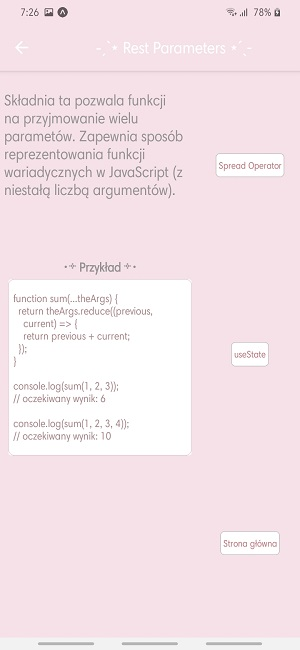
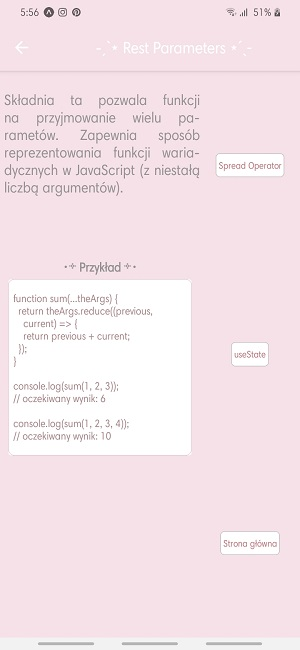
done

diff --git a/Laboratorium2/myapp/components/UseState.js b/Laboratorium2/myapp/components/UseState.js
@@ -36,8 +36,8 @@ export default function UseState({navigation}) {
 
         <View style={styles.state.descr}>
           <View style={styles.state.text}>
-          <Text style={styles.rest.optxt}>Jest to hook, który pozwala korzystać ze stanu w komponencie funkcyjnym. Wywołanie useState deklaruje "zmienną stanu".
-          Jest to sposób na przechowywanie wartości stanu w React'cie.</Text>
+          <Text style={styles.rest.optxt}>Jest to hook, który pozwala korzystać ze stanu w komponencie funkcyjnym. Wywołanie use- State deklaruje "zmienną sta- nu".
+          Jest to sposób na prze- chowywanie wartości stanu w React'cie.</Text>
           </View>
           <View style={styles.state.ex}>
           <Text style={styles.rest.extxt1}>･༓ Przykład ༓･</Text>

diff --git a/Laboratorium2/myapp/components/RestParam.js b/Laboratorium2/myapp/components/RestParam.js
@@ -21,7 +21,8 @@ export default function RestParam({navigation}) {
       <View style={styles.rest.container}>
         <View style={styles.rest.text}>
           <View style={styles.rest.op}>
-          <Text style={styles.rest.optxt}>Składnia ta pozwala funkcji na przyjmowanie wielu parametów. Zapewnia sposób reprezentowania funkcji wariadycznych w JavaScript (z niestałą liczbą argumentów).</Text>
+          <Text style={styles.rest.optxt}>Składnia ta pozwala funkcji na przyjmowanie wielu pa- rametów. 
+          Zapewnia sposób reprezentowania funkcji waria- dycznych w JavaScript (z niestałą liczbą argumentów).</Text>
           </View>
           <View style={styles.rest.ex}>
             <Text style={styles.rest.extxt1}>･༓ Przykład ༓･</Text>

diff --git a/Laboratorium2/myapp/components/SpreadOp.js b/Laboratorium2/myapp/components/SpreadOp.js
@@ -17,7 +17,7 @@ export default function SpreadOp({navigation}) {
       <View style={styles.spread.container}>
         <View style={styles.spread.top}>
           <View style={styles.spread.desc}>
-          <Text style={styles.rest.optxt}>Składnia (...) umożliwia rozbijanie iterowanej wartości na składowe. Mogą nimi być
+          <Text style={styles.rest.optxt}>Składnia (...) umożliwia rozbi- janie iterowanej wartości na składowe. Mogą nimi być
           stringi (bo składają się z poszczególnych liter), tablice (bo składają się z elementów) oraz kolekcje lub obiekty, po których często robimy pętle. </Text>
           </View>
           <View style={styles.spread.buttons}>

diff --git a/Laboratorium2/myapp/components/styles.js b/Laboratorium2/myapp/components/styles.js
@@ -70,8 +70,9 @@ styles.rest = StyleSheet.create({
     optxt: {
         color: '#999697',
         marginTop: '10%',
-        fontSize: 23,
-        marginLeft: 5
+        fontSize: 22,
+        marginLeft: 5,
+        textAlign: 'justify'
     },
     extxt1: {
         color: '#999697',
